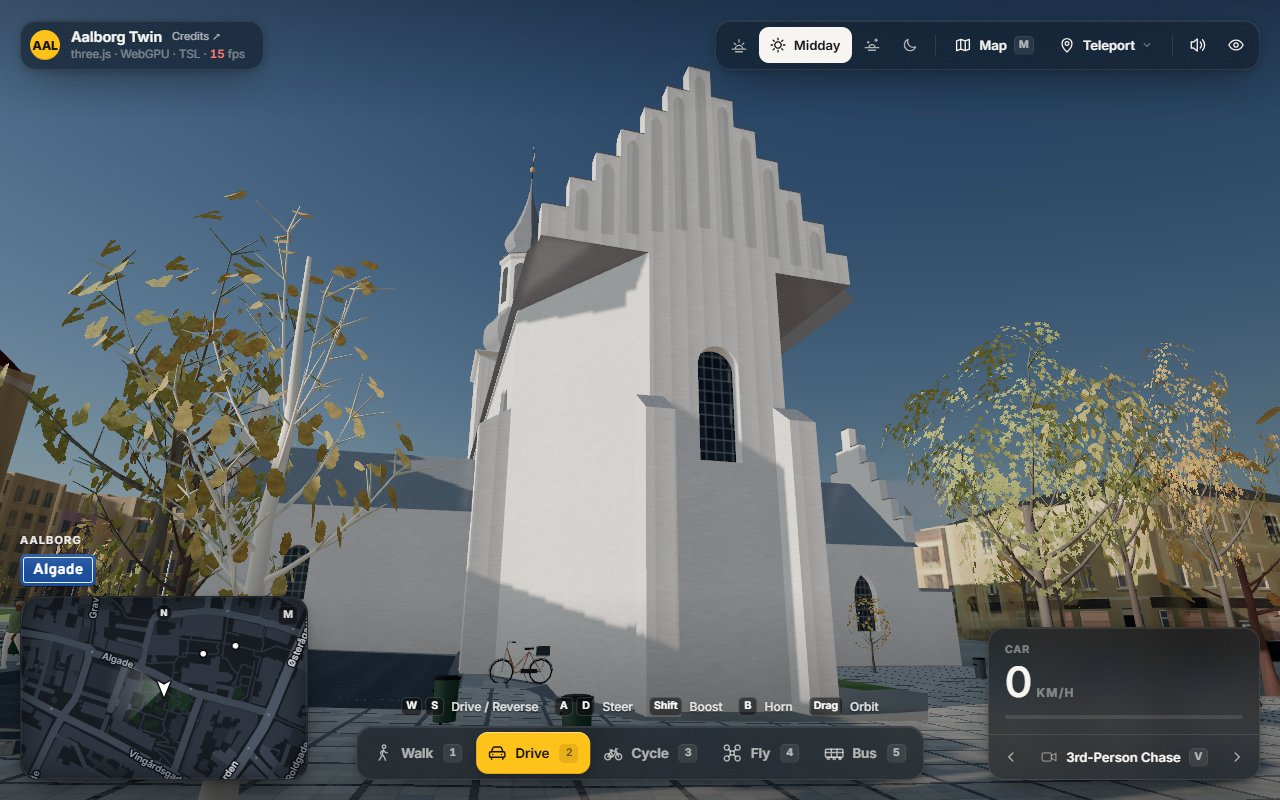
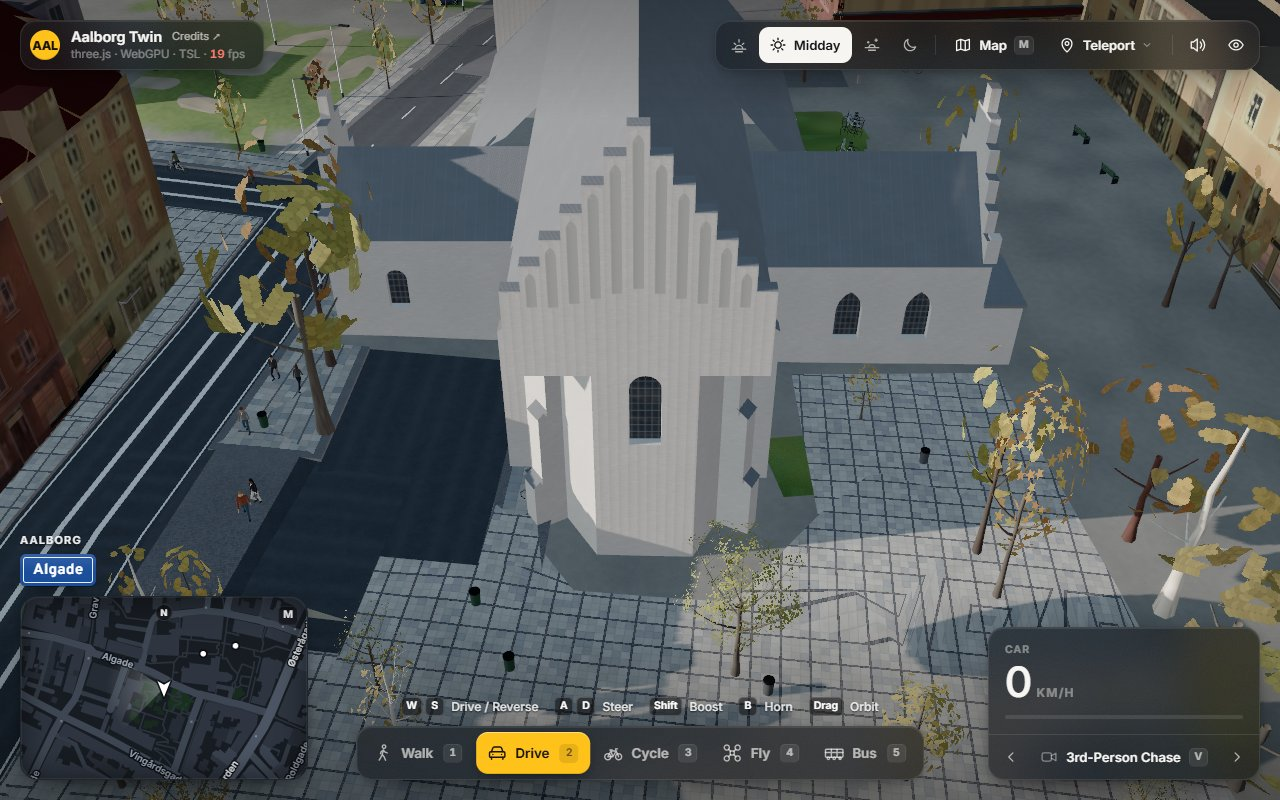
Budolfi: the east end stands on its walls, nothing overhangs
The roof over the east end no longer reaches out over the cut corners. As the
photographs show, the corners are cut back only up to 12.4 m and are carried
there on diagonal buttresses that step back twice under grey caps. Above that,
the east end has the full width, so the gable and the roof stand on walls. The
eaves elsewhere stand out 0.15 m instead of 0.35 m.

diff --git a/tools/overrides/budolfi.py b/tools/overrides/budolfi.py
@@ -42,7 +42,8 @@ NAVE = (10.2, 52.04, 16.48, 27.64)  # nave and chancel under one roof: u0, u1, v
 EAVE, RIDGE = 15.45, 22.45
 EAST_GABLE = 23.6  # the crest of the stepped gable over the chancel's east end (sheets 51-53)
 APSE = [(52.08, 16.48), (57.74, 19.47), (57.74, 24.07), (52.04, 27.64)]  # the east end, its corners cut back, north to south
-EAST_END = 57.74  # the roof runs on over the cut corners to the crow-stepped gable on the east front (photographs, surface model)
+EAST_END = 57.74  # the roof runs on to the crow-stepped gable on the east front (photographs, surface model)
+CORNER_FOOT = 12.4  # the cut corners end under the gable's foot: above, the east end has the chancel's full width
 N_AISLE = (9.9, 32.0, 10.93, 16.48)
 S_AISLE = (9.9, 32.15, 27.64, 33.24)
 AISLE_FOOT_N, AISLE_FOOT_S, AISLE_HEAD = 7.75, 8.65, 14.05  # the lean-to roofs: eaves on the north and the south, and where they meet the nave
@@ -58,7 +59,7 @@ PORCH_EAVE, PORCH_RIDGE, PORCH_GABLE = 9.5, 13.0, 16.15
 ANNEX = (1.27, 9.9, 27.05, 33.24)  # south of the tower, its stepped gable towards Algade
 ANNEX_EAVE, ANNEX_RIDGE, ANNEX_GABLE = 13.25, 18.1, 19.9
 NW_ROOM = (1.38, 8.89, 15.22, 17.55, 8.2, 10.0)  # the low room north of the tower: u0, u1, v0, v1, eave, head against the tower
-OVER = 0.35  # how far the eaves stand out
+OVER = 0.15  # how far the eaves stand out: little, as the photographs show them over the whitewashed walls
 
 # The spire (1934 survey, 55.9 px to the metre at the scan's 2400 px; the section cut through the flats): (half across the flats, height over the cornice).
 LOWER_BELL = [(4.3, 0.0), (3.13, 1.52), (3.49, 1.88), (3.79, 2.33), (3.97, 2.86), (3.97, 4.3), (3.67, 5.0), (3.04, 5.72), (2.68, 6.44), (2.68, 6.62)]
@@ -197,7 +198,9 @@ def add_nave(m, hb):
     ops = {0: [(u, win(), 'glass') for u in (14.9, 20.4, 26.2, 35.1)] + [(u, pointed(9.6, 13.1, 1.5), 'glass') for u in (44.6, 49.9)],
            2: [(u, win(), 'glass') for u in (15.7, 21.5, 26.4)] + [(u, arch(8.15, 13.05, 1.6), 'glass') for u in (42.6, 49.4)]}
     block(m, rect_ring(u0, u1, v0, v1), hb, [EAVE, EAVE, EAVE, EAVE], ops, skip=(1, 3))  # the tower and the apse close its ends
-    gable_roof(m, u0, EAST_END - 0.45, v0, v1, EAVE, RIDGE, 'u', ends=(False, False))
+    gable_roof(m, u0, u1, v0, v1, EAVE, RIDGE, 'u', ends=(False, False))
+    # over the east end the roof sits on its walls, flush, up to the gable
+    gable_roof(m, u1, EAST_END - 0.45, v0, v1, EAVE, RIDGE, 'u', ends=(False, False), over=0.0)
     # the east gable, crow-stepped and set with blind recesses (sheet 52), standing on the east front
     stepped_gable(m, WallFrame((EAST_END, v0), (EAST_END, v1)), EAVE, EAST_GABLE, 6, niches=1)
     # the buttresses at the chancel's corners (sheets 52 and 53)
@@ -206,19 +209,28 @@ def add_nave(m, hb):
 
 
 def add_apse(m, hb):
+    """The east front: its corners are cut back to the gable's foot, carried there on stepped diagonal buttresses (photographs), and from there up the mass is
+    the full width of the chancel, so that the gable and the roof stand on walls and nothing overhangs."""
     ring = APSE
     ops = {1: [(21.77, arch(8.6, 12.4, 1.4), 'glass')]}
+    tops = [CORNER_FOOT, EAVE, CORNER_FOOT]
     for i in range(len(ring) - 1):
         w = WallFrame(ring[i], ring[i + 1])
         here = ops.get(i, [])
-        m.wall('wall', w, hb, EAVE, [(w.at(c), o) for c, o, _ in here])
+        m.wall('wall', w, hb, tops[i], [(w.at(c), o) for c, o, _ in here])
         openings(m, w, here)
-    # over each cut corner, a ledge under the gable's overhang
-    (a, b), (c, d) = (ring[0], ring[1]), (ring[2], ring[3])
-    m.poly('roof', [(a[0], EAVE, a[1]), (EAST_END, EAVE, a[1]), (b[0], EAVE, b[1])], UP)
-    m.poly('roof', [(d[0], EAVE, d[1]), (c[0], EAVE, c[1]), (EAST_END, EAVE, d[1])], UP)
-    for u, v in ring[1:3]:
-        buttress(m, u, v + (0.0 if v > 22 else 0.0), 1.0, 0, hb, 10.5)
+    # the corners over the cuts, from the buttresses' heads to the eaves: their faces flush with the chancel's walls and the front
+    for (ua, va), (ub, vb), sgn in ((ring[0], ring[1], -1), (ring[3], ring[2], 1)):
+        m.poly('wall', [(ua, CORNER_FOOT, va), (EAST_END, CORNER_FOOT, va), (EAST_END, EAVE, va), (ua, EAVE, va)], (0, 0, sgn))
+        m.poly('wall', [(EAST_END, CORNER_FOOT, va), (EAST_END, CORNER_FOOT, vb), (EAST_END, EAVE, vb), (EAST_END, EAVE, va)], (1, 0, 0))
+        m.poly('wall', [(ua, CORNER_FOOT, va), (EAST_END, CORNER_FOOT, va), (ub, CORNER_FOOT, vb)], -UP)
+        # the diagonal buttress in the middle of the cut, stepping back twice, grey-capped
+        w = WallFrame((ua, va), (ub, vb)) if sgn < 0 else WallFrame((ub, vb), (ua, va))
+        s = w.length / 2
+        for h0, h1, out in ((hb, 4.6, 1.7), (4.6, 8.6, 1.25), (8.6, CORNER_FOOT, 0.8)):
+            m.wbox('wall', w, s - 0.5, s + 0.5, h0, h1, 0.0, out, top=False)
+            m.poly('roof', [w.p(s - 0.52, h1, out + 0.05), w.p(s + 0.52, h1, out + 0.05), w.p(s + 0.52, h1 + 0.45, max(out - 0.55, 0.0)), w.p(s - 0.52, h1 + 0.45, max(out - 0.55, 0.0))],
+                   UP + w.n)
 
 
 def add_aisles(m, hb):

diff --git a/tools/geodata/tests/test_budolfi.py b/tools/geodata/tests/test_budolfi.py
@@ -22,6 +22,10 @@ def test_the_heights_of_the_sheets_hold(parts):
     walls = parts["wall"]["p"]
     east = walls[np.abs(walls[:, 0] - B.EAST_END) < 0.6]
     assert east[:, 1].max() == pytest.approx(B.EAST_GABLE), "the east gable's crest"
+    # the roof over the east end stands on its walls: its eaves are the walls' line, at the walls' head
+    east_roof = roof[(roof[:, 0] > B.NAVE[1] + 0.1) & (roof[:, 1] > B.EAVE - 1e-6)]  # the buttresses' caps aside
+    assert east_roof[:, 2].min() == pytest.approx(B.NAVE[2]) and east_roof[:, 2].max() == pytest.approx(B.NAVE[3])
+    assert east_roof[(east_roof[:, 2] < B.NAVE[2] + 0.01), 1].min() == pytest.approx(B.EAVE)
 
 
 def test_the_spire_follows_the_survey(parts):
@@ -37,7 +41,7 @@ def test_the_spire_follows_the_survey(parts):
 def test_the_walls_stand_on_the_geodanmark_footprint(parts):
     walls = parts["wall"]["p"]
     low = walls[walls[:, 1] < 2.0]
-    assert low[:, 0].min() == pytest.approx(B.ANNEX[0], abs=0.05) and low[:, 0].max() == pytest.approx(57.74 + 1.0, abs=0.05), "west front to the apse's buttresses"
+    assert low[:, 0].min() == pytest.approx(B.ANNEX[0], abs=0.05) and low[:, 0].max() < 57.74 + 1.7, "west front to the east front's diagonal buttresses"
     assert low[:, 2].min() == pytest.approx(0.0, abs=0.05) and low[:, 2].max() == pytest.approx(39.8, abs=0.05), "the north chapel's room to the south porch"
 
 

diff --git a/docs/budolfi.md b/docs/budolfi.md
@@ -32,14 +32,15 @@ No pixel of a drawing or photograph is in the model. The drawings give numbers a
 - **Spire.** Octagonal throughout: the bell-shaped lower roof, the white lantern with eight round-headed openings, the upper bell, the needle, the gilt ball,
   the vane and the rod. The tip of the rod is 60.4 m in the twin's frame, about 58 m over the street.
 - **Nave and chancel.** One lead roof (eaves 15.45, ridge 22.45) runs from the tower to the east front. The clerestory has its small round-headed windows,
-  and the chancel has two tall windows to each side. The east end has its corners cut back, with buttresses, under the crow-stepped east gable (crest 23.6)
-  with its blind recesses.
+  and the chancel has two tall windows to each side. The roof stands on its walls, with eaves only 0.15 m out, and sits flush over the east end.
+- **East front.** Its corners are cut back up to 12.4 m and carried there on diagonal buttresses that step back twice under grey caps. Above that, the east
+  end has the chancel's full width, so the crow-stepped gable (crest 23.6, with its blind recesses) and the roof stand on walls.
 - **Aisles.** Lean-to roofs, with four large round-headed windows and buttresses on each side. The south aisle's eaves are 0.9 m higher than the north's.
 - **North chapel (1899).** Its decorated crow-stepped gable has pinnacles and lancets, with a low room before it, and its roof runs on to the nave.
 - **South porch** and the **room south of the tower**. Each has a crow-stepped gable towards Algade, a pointed door and windows. A low room under a lean-to
   stands north of the tower.
 
-About 7,200 triangles, 5 draw calls, a 0.27 MB GLB and 3.1 MB of textures. The three overrides now hold 28.0 MB of the 32 MiB budget.
+About 7,300 triangles, 5 draw calls, a 0.27 MB GLB and 3.1 MB of textures. The three overrides now hold 28.0 MB of the 32 MiB budget.
 
 ## How well it fits
 
@@ -60,7 +61,7 @@ model's edges, projected with each 2021 oblique camera, fall on the roofs, gable
 
 | Sheets | Model | Why |
 | --- | --- | --- |
-| East gable drawn over the chancel's end | Gable on the east front at u = 57.7, the roof running on over the cut corners | The photographs and DHM: the ridge runs on to the east front |
+| East gable drawn over the chancel's end | Gable on the east front at u = 57.7, the cut corners carried up on buttresses to full width under it | The photographs and DHM: the ridge runs on to the east front, and nothing overhangs |
 | Plan positions of the porch, chancel windows and gables | GeoDanmark footprint | The drawn elevations disagree with the footprint by up to 2 m in places; the footprint is surveyed |
 | Room south of the tower: ridge 17.65 (west sheet) | 18.1, crest 19.9 | DHM over that roof |
 | The spire's fan of timbers, the iron anchors ("1779" on the north face), the clock's numerals | Left out | Too fine for the twin, or inside |
